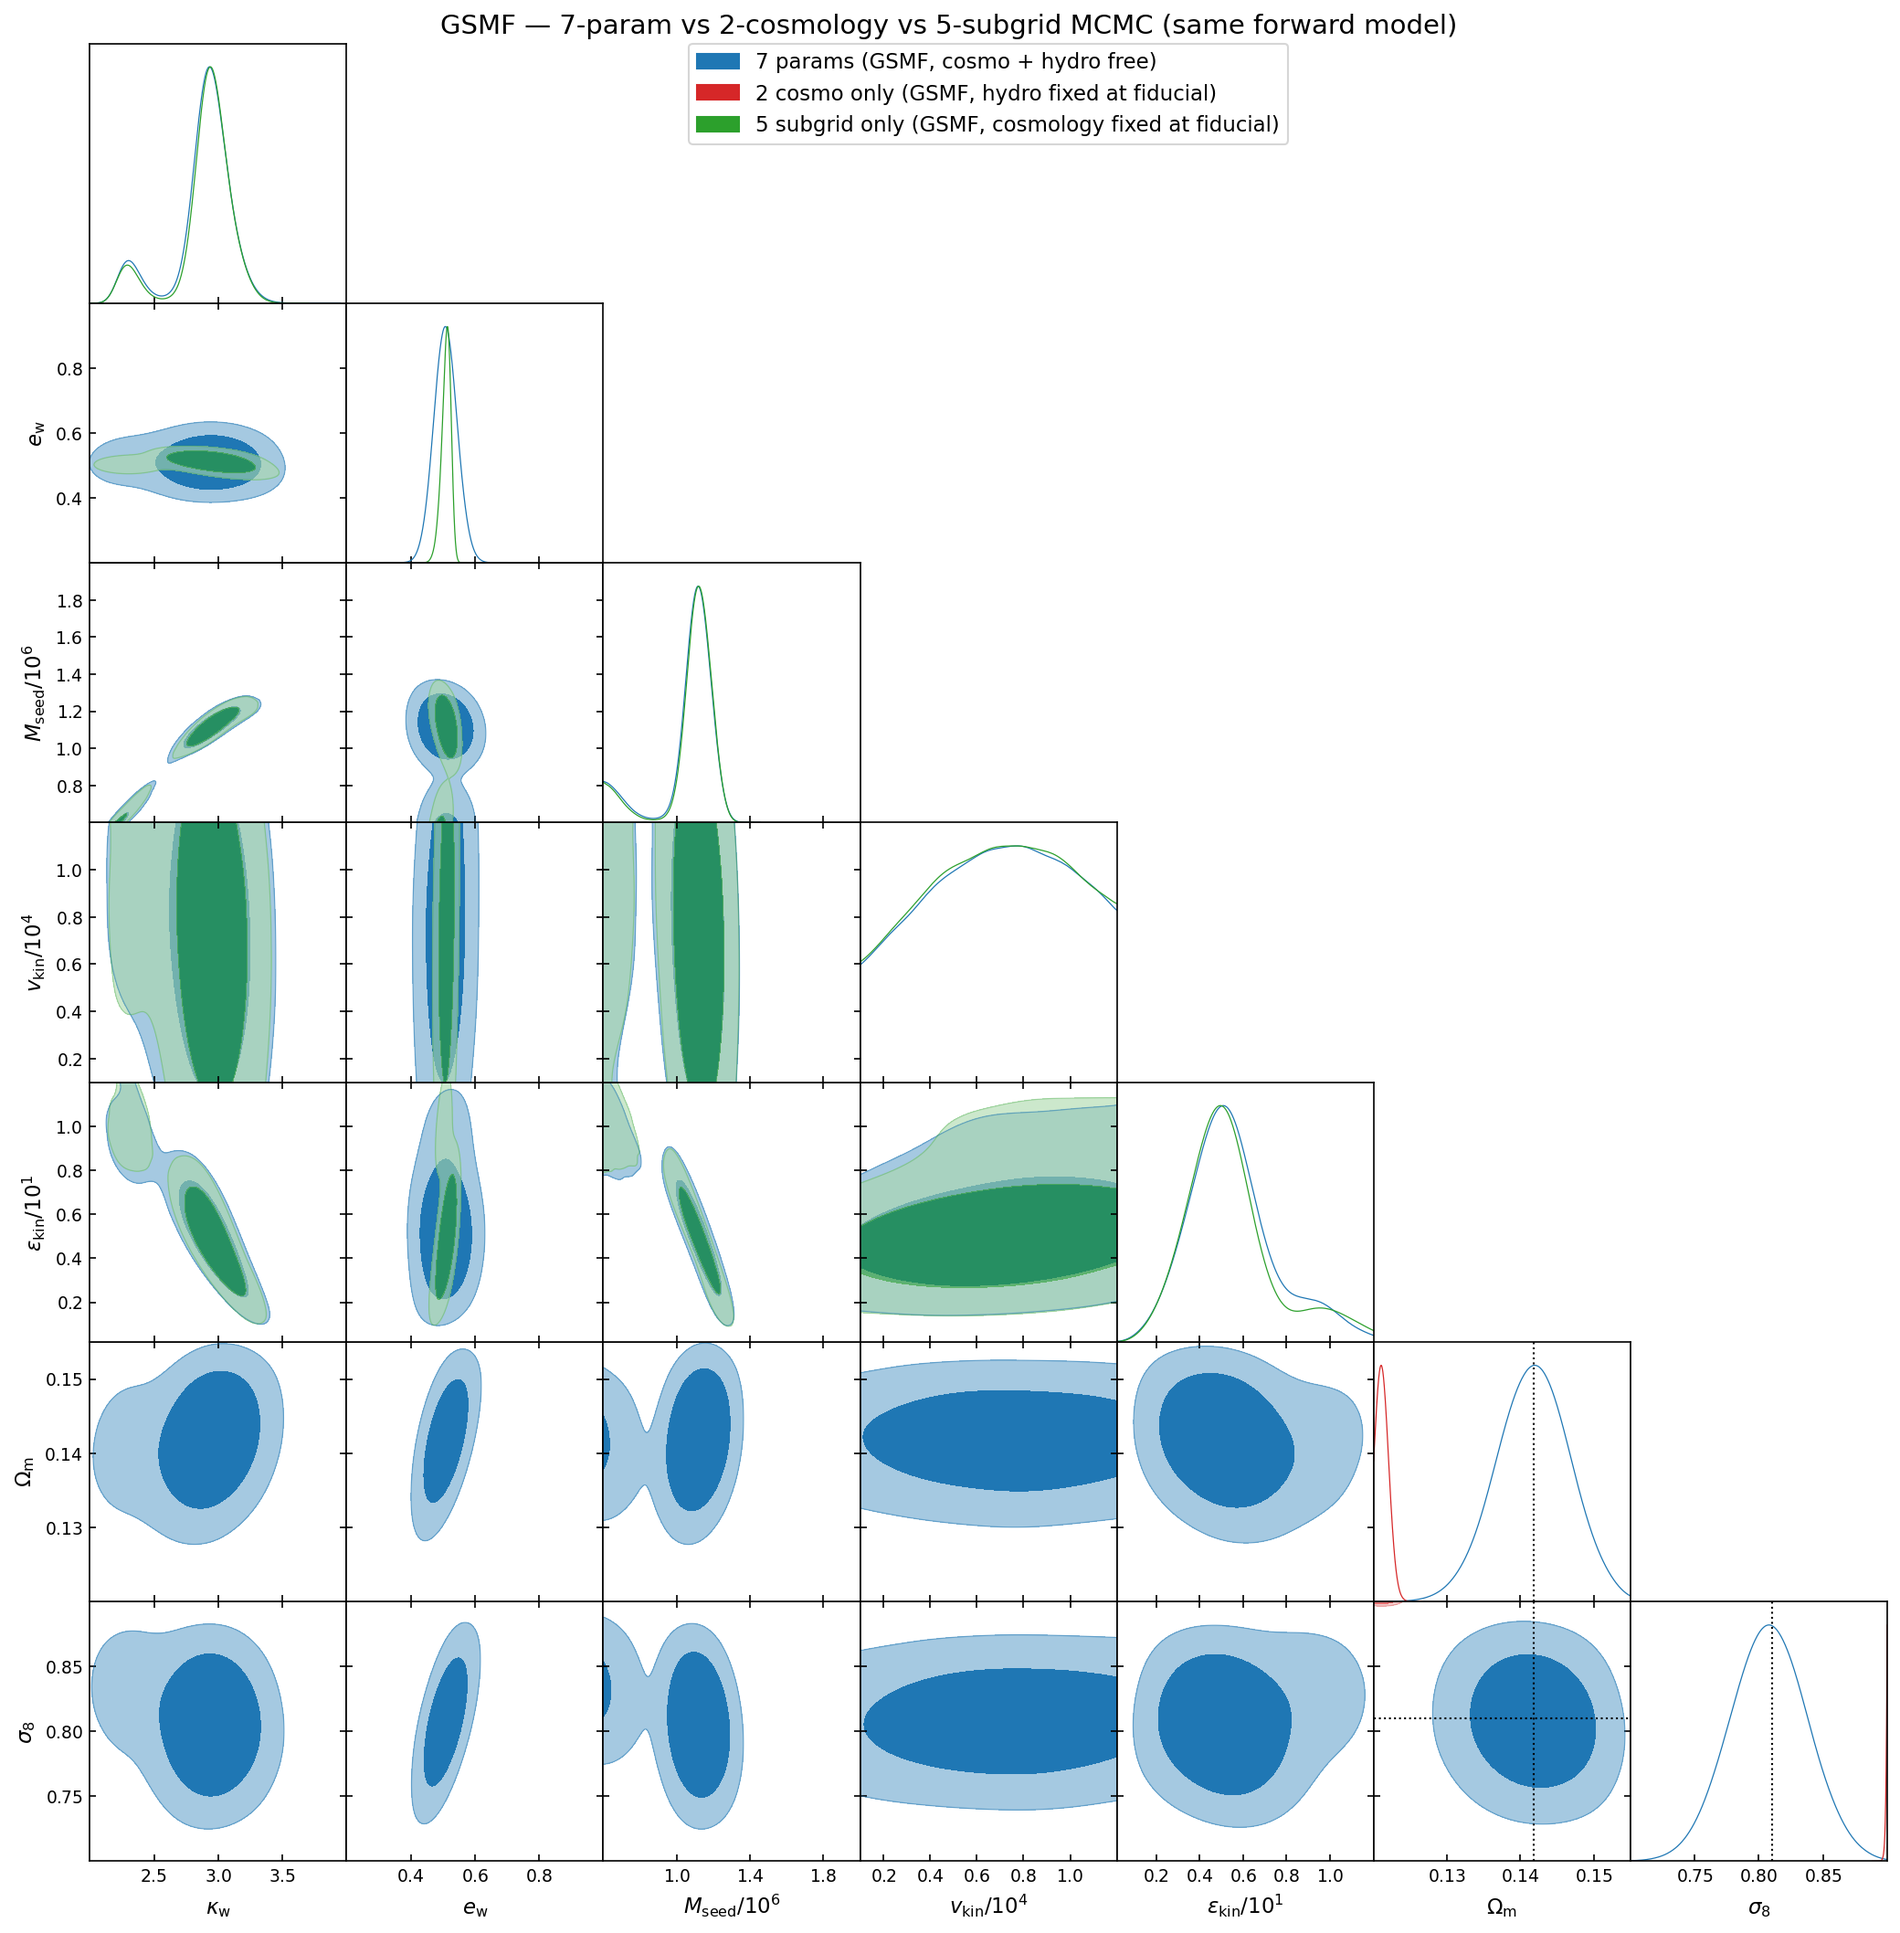
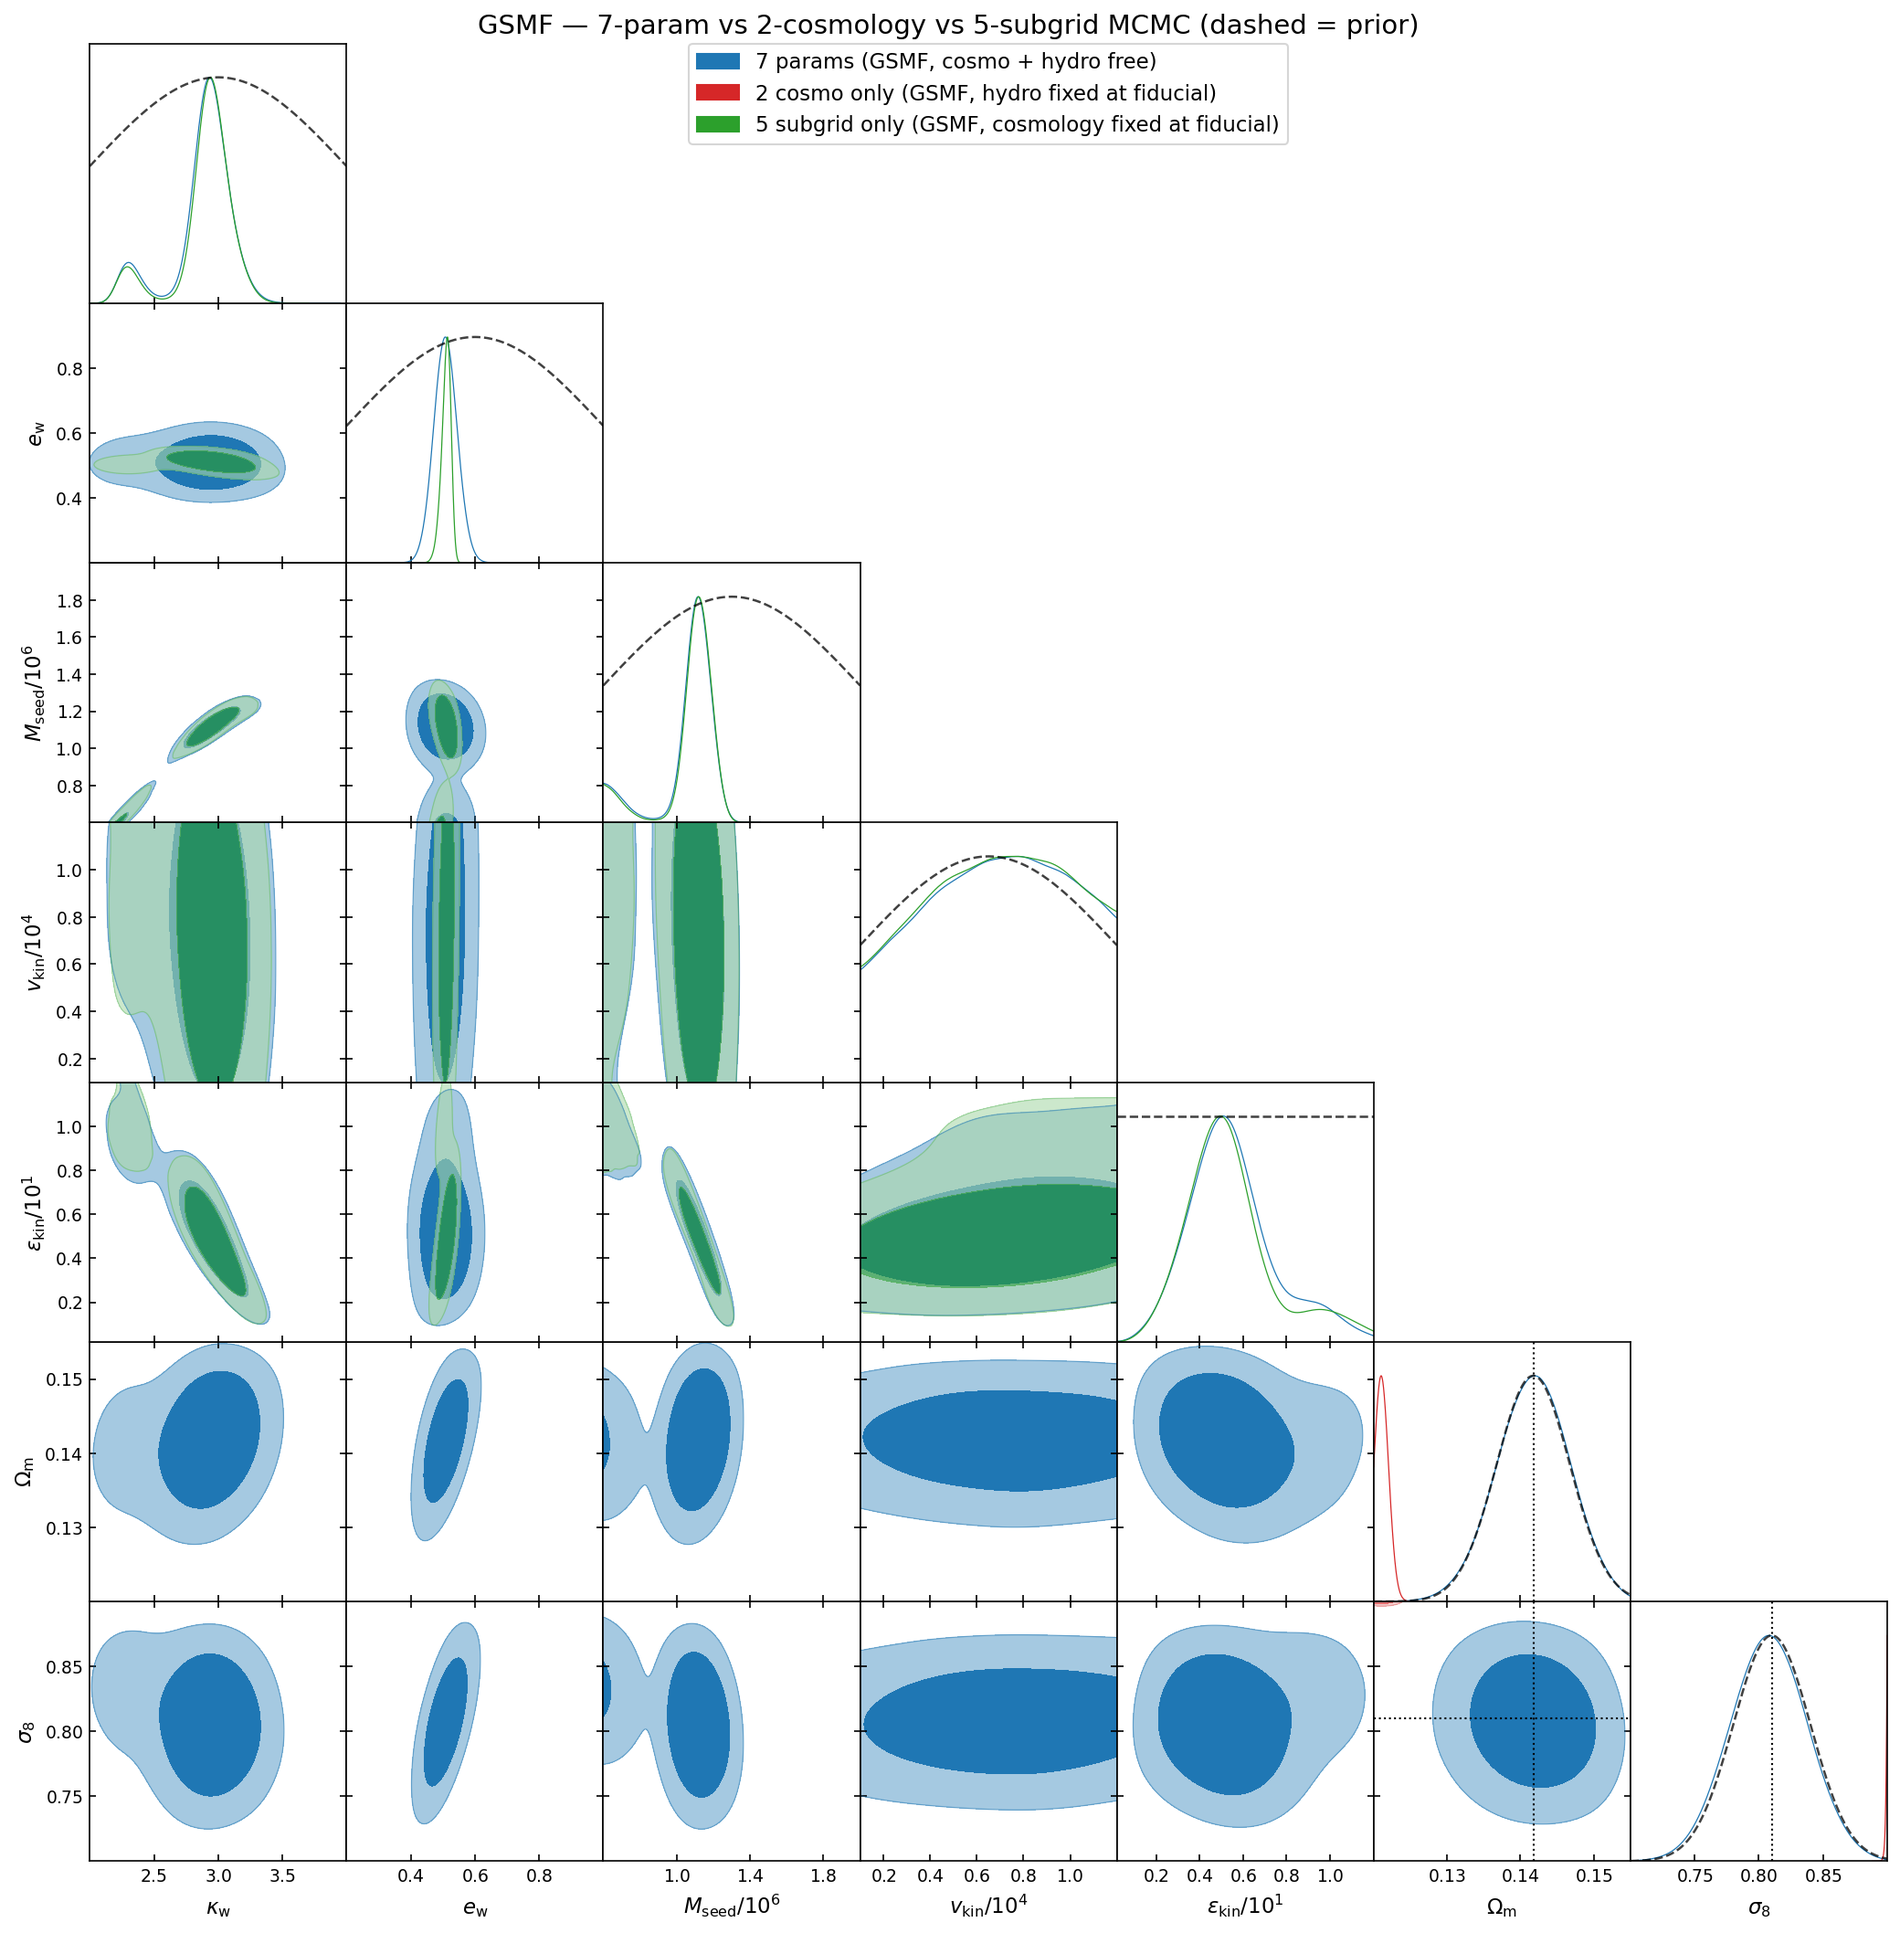
trunc configs

diff --git a/Inference/plot_7p_vs_2cosmo_5subgrid.py b/Inference/plot_7p_vs_2cosmo_5subgrid.py
@@ -2,13 +2,17 @@
 """
 Overlay plots comparing MCMC posteriors that share a forward model.
 
-For each observable suite (GSMF, and GSMF+CGD) it builds a triangle in the
+For each observable suite (GSMF, GSMF+CGD) it builds a triangle in the
 7-parameter space with two reduced-dimension posteriors overlaid:
   - the 2-cosmology-parameter (hydro fixed) posterior on the cosmology panels,
   - the 5-subgrid-parameter (cosmology fixed) posterior on the subgrid panels.
 
-It also makes a 7-parameter comparison of GSMF vs GSMF+CGD (how adding CGD
-shifts the joint posterior, especially cosmology).
+It also makes a 7-parameter comparison of GSMF vs GSMF+CGD, and the same set for
+the hard-truncated-prior (`*_trunc`) runs.
+
+The 1D diagonal panels show the prior as a dashed line (peak-normalized):
+cosmology = the (truncated) fiducial Gaussian, eps_kin = flat, other subgrid =
+the broad default Gaussian (midpoint, sigma = half-range).
 
 Chains are skipped if missing, so this is safe to run while runs are ongoing.
 
@@ -22,8 +26,17 @@ from getdist import plots, MCSamples
 
 RESULTS = os.path.join(os.path.dirname(__file__), 'results')
 
-# Project fiducial cosmology (crosshairs on the cosmology panels).
+# Project fiducial cosmology (crosshairs + prior centers).
 FID_OM, FID_S8 = 0.14176, 0.8102
+
+# Cosmology prior per run-family, as {param: (mu, sigma, trunc_lo, trunc_hi)}.
+# Moderate = configs/_defaults.yaml (Gaussian truncated only by the design box).
+MODERATE_PRIOR = {'omega_m': (FID_OM, 0.005, 0.12, 0.155),
+                  'sigma_8': (FID_S8, 0.03,  0.70, 0.90)}
+# Trunc = Planck-tight Gaussian hard-truncated at fiducial +/- 1 sigma
+# (matches the *_trunc configs).
+TRUNC_PRIOR = {'omega_m': (FID_OM, 0.0011, 0.14066, 0.14286),
+               'sigma_8': (FID_S8, 0.006,  0.8042, 0.8162)}
 
 SETTINGS = {'mult_bias_correction_order': 0.5,
             'smooth_scale_2D': 4, 'smooth_scale_1D': 4}
@@ -50,6 +63,17 @@ def mcsamples(loaded, label):
                      label=label, ranges=ranges, settings=SETTINGS)
 
 
+def _cosmo_kind(name):
+    """Return 'omega_m', 'sigma_8', 'eps_kin' (flat), or None for a latex name."""
+    if 'Omega' in name:
+        return 'omega_m'
+    if 'sigma_8' in name:
+        return 'sigma_8'
+    if 'epsilon' in name:
+        return 'eps_kin'
+    return None
+
+
 def fiducial_crosshairs(g, names):
     """Dotted crosshairs at fiducial cosmology on the (omega_m, sigma_8) panels."""
     fid = {names[5]: FID_OM, names[6]: FID_S8}
@@ -67,29 +91,40 @@ def fiducial_crosshairs(g, names):
                 ax.axhline(fid[ni], color='k', lw=1.0, ls=':')
 
 
-def make_triangle(suite, obs_label, output):
-    """7p triangle with 2cosmo (cosmo panels) and 5subgrid (subgrid panels)
-    overlaid, for one observable suite. suite is the trial-name prefix, e.g.
-    'GSMF' or 'GSMF_CGD'."""
-    print(f"\n=== triangle: {obs_label} ({suite}) ===")
-    l7 = load(f'{suite}_7p')
-    if l7 is None:
-        print(f"  no 7p chain for {suite} — skipping this triangle")
-        return
-    l2 = load(f'{suite}_2cosmo')
-    l5 = load(f'{suite}_5p_fid_cosmo')
+def overlay_priors(g, names, ranges, cosmo_prior):
+    """Dashed prior curve (peak-normalized) on each 1D diagonal panel.
 
-    names_7p, ranges_7p = l7[1], l7[2]
-    mcs, colors, labels = [], [], []
-    mcs.append(mcsamples(l7, f'7 params ({obs_label}, cosmo + hydro free)'))
-    colors.append('#1f77b4'); labels.append(mcs[-1].label)
-    if l2 is not None:
-        mcs.append(mcsamples(l2, f'2 cosmo only ({obs_label}, hydro fixed at fiducial)'))
-        colors.append('#d62728'); labels.append(mcs[-1].label)
-    if l5 is not None:
-        mcs.append(mcsamples(l5, f'5 subgrid only ({obs_label}, cosmology fixed at fiducial)'))
-        colors.append('#2ca02c'); labels.append(mcs[-1].label)
+    cosmo_prior : dict {'omega_m': (mu, sigma, lo, hi), 'sigma_8': (...)} giving
+    the cosmology Gaussian and its hard-truncation window (MODERATE_PRIOR for the
+    moderate runs, TRUNC_PRIOR for the *_trunc runs).
+    """
+    for i, name in enumerate(names):
+        ax = g.subplots[i, i]
+        if ax is None:
+            continue
+        lo, hi = ranges[name]
+        x = np.linspace(lo, hi, 500)
+        kind = _cosmo_kind(name)
+        if kind in ('omega_m', 'sigma_8'):
+            mu, sig, tlo, thi = cosmo_prior[kind]
+            y = np.exp(-0.5 * ((x - mu) / sig) ** 2)
+            y[(x < tlo) | (x > thi)] = 0.0
+        elif kind == 'eps_kin':            # flat prior
+            y = np.ones_like(x)
+        else:                              # broad default Gaussian (midpoint, half-range)
+            mu = 0.5 * (lo + hi)
+            sig = 0.5 * (hi - lo)
+            y = np.exp(-0.5 * ((x - mu) / sig) ** 2)
+        if y.max() > 0:
+            y = y / y.max()
+        # getdist peak-normalizes the 1D posterior to 1.0; draw the prior on the
+        # same scale and add headroom so a flat prior (eps_kin) isn't hidden
+        # under the top frame.
+        ax.plot(x, y, color='k', ls='--', lw=1.2, alpha=0.75)
+        ax.set_ylim(0, 1.15)
 
+
+def _plotter():
     g = plots.get_subplot_plotter(subplot_size=2.0)
     g.settings.axes_fontsize = 12
     g.settings.axes_labelsize = 14
@@ -97,24 +132,50 @@ def make_triangle(suite, obs_label, output):
     g.settings.alpha_filled_add = 0.6
     g.settings.solid_contour_palefactor = 0.6
     g.settings.num_plot_contours = 2
+    return g
 
+
+def make_triangle(obs_label, t7p, t2c, t5p, output, cosmo_prior=MODERATE_PRIOR):
+    """7p triangle with 2cosmo (cosmo panels) and 5subgrid (subgrid panels)
+    overlaid. cosmo_prior defaults to the moderate _defaults prior."""
+    print(f"\n=== triangle: {obs_label} ===")
+    l7 = load(t7p)
+    if l7 is None:
+        print(f"  no 7p chain ({t7p}) — skipping this triangle")
+        return
+    l2 = load(t2c) if t2c else None
+    l5 = load(t5p) if t5p else None
+
+    names_7p, ranges_7p = l7[1], l7[2]
+
+    mcs, colors, labels = [mcsamples(l7, f'7 params ({obs_label}, cosmo + hydro free)')], ['#1f77b4'], []
+    labels.append(mcs[-1].label)
+    if l2 is not None:
+        mcs.append(mcsamples(l2, f'2 cosmo only ({obs_label}, hydro fixed at fiducial)'))
+        colors.append('#d62728'); labels.append(mcs[-1].label)
+    if l5 is not None:
+        mcs.append(mcsamples(l5, f'5 subgrid only ({obs_label}, cosmology fixed at fiducial)'))
+        colors.append('#2ca02c'); labels.append(mcs[-1].label)
+
+    g = _plotter()
     g.triangle_plot(mcs, params=names_7p, filled=True, legend_labels=labels,
                     param_limits=ranges_7p, contour_colors=colors)
     fiducial_crosshairs(g, names_7p)
+    overlay_priors(g, names_7p, ranges_7p, cosmo_prior)
     plt.suptitle(f'{obs_label} — 7-param vs 2-cosmology vs 5-subgrid MCMC '
-                 '(same forward model)', y=1.005, fontsize=14)
+                 '(dashed = prior)', y=1.005, fontsize=14)
     plt.savefig(output, bbox_inches='tight', dpi=150)
     plt.close()
     print(f"  saved: {output}")
 
 
-def make_7p_comparison(suites, output):
-    """Overlay the 7-parameter posteriors of several suites (e.g. GSMF vs
-    GSMF+CGD) on one triangle. suites = [(trial_prefix, label, color), ...]."""
-    print("\n=== 7p comparison: GSMF vs GSMF+CGD ===")
+def make_7p_comparison(suites, output, cosmo_prior=MODERATE_PRIOR):
+    """Overlay the 7-parameter posteriors of several suites on one triangle.
+    suites = [(trial_name, label, color), ...]."""
+    print("\n=== 7p comparison ===")
     mcs, colors, labels, names_ref, ranges_ref = [], [], [], None, None
-    for prefix, label, color in suites:
-        l = load(f'{prefix}_7p')
+    for trial, label, color in suites:
+        l = load(trial)
         if l is None:
             continue
         mcs.append(mcsamples(l, label)); colors.append(color); labels.append(label)
@@ -123,34 +184,40 @@ def make_7p_comparison(suites, output):
     if len(mcs) < 2:
         print("  fewer than 2 7p chains available — skipping comparison")
         return
-
-    g = plots.get_subplot_plotter(subplot_size=2.0)
-    g.settings.axes_fontsize = 12
-    g.settings.axes_labelsize = 14
-    g.settings.legend_fontsize = 14
-    g.settings.alpha_filled_add = 0.6
-    g.settings.solid_contour_palefactor = 0.6
-    g.settings.num_plot_contours = 2
-
+    g = _plotter()
     g.triangle_plot(mcs, params=names_ref, filled=True, legend_labels=labels,
                     param_limits=ranges_ref, contour_colors=colors)
     fiducial_crosshairs(g, names_ref)
-    plt.suptitle('7-param MCMC — GSMF vs GSMF+CGD (how adding CGD shifts the posterior)',
-                 y=1.005, fontsize=14)
+    overlay_priors(g, names_ref, ranges_ref, cosmo_prior)
+    plt.suptitle('7-param MCMC comparison (dashed = prior)', y=1.005, fontsize=14)
     plt.savefig(output, bbox_inches='tight', dpi=150)
     plt.close()
     print(f"  saved: {output}")
 
 
 def main():
-    make_triangle('GSMF', 'GSMF',
+    # --- moderate-prior runs (design-box truncation) ---
+    make_triangle('GSMF', 'GSMF_7p', 'GSMF_2cosmo', 'GSMF_5p_fid_cosmo',
                   os.path.join(RESULTS, 'plot_7p_vs_2cosmo_5subgrid.png'))
-    make_triangle('GSMF_CGD', 'GSMF+CGD',
+    make_triangle('GSMF+CGD', 'GSMF_CGD_7p', 'GSMF_CGD_2cosmo', 'GSMF_CGD_5p_fid_cosmo',
                   os.path.join(RESULTS, 'plot_7p_vs_2cosmo_5subgrid_GSMF_CGD.png'))
     make_7p_comparison(
-        [('GSMF', 'GSMF (7p)', '#1f77b4'),
-         ('GSMF_CGD', 'GSMF+CGD (7p)', '#ff7f0e')],
+        [('GSMF_7p', 'GSMF (7p)', '#1f77b4'),
+         ('GSMF_CGD_7p', 'GSMF+CGD (7p)', '#ff7f0e')],
         os.path.join(RESULTS, 'plot_7p_GSMF_vs_GSMF_CGD.png'))
+
+    # --- hard-truncated-prior runs (Planck-tight Gaussian, fiducial +/-1 sigma) ---
+    make_triangle('GSMF, Planck prior', 'GSMF_7p_trunc', 'GSMF_2cosmo_trunc', None,
+                  os.path.join(RESULTS, 'plot_7p_vs_2cosmo_5subgrid_trunc.png'),
+                  cosmo_prior=TRUNC_PRIOR)
+    make_triangle('GSMF+CGD, Planck prior', 'GSMF_CGD_7p_trunc', 'GSMF_CGD_2cosmo_trunc', None,
+                  os.path.join(RESULTS, 'plot_7p_vs_2cosmo_5subgrid_GSMF_CGD_trunc.png'),
+                  cosmo_prior=TRUNC_PRIOR)
+    make_7p_comparison(
+        [('GSMF_7p_trunc', 'GSMF (7p, Planck)', '#1f77b4'),
+         ('GSMF_CGD_7p_trunc', 'GSMF+CGD (7p, Planck)', '#ff7f0e')],
+        os.path.join(RESULTS, 'plot_7p_GSMF_vs_GSMF_CGD_trunc.png'),
+        cosmo_prior=TRUNC_PRIOR)
 
 
 if __name__ == '__main__':

diff --git a/Inference/run_mcmc.py b/Inference/run_mcmc.py
@@ -441,6 +441,22 @@ def build_param_space(cfg, design_params):
     for bp in bias_cfg:
         params_list.append([bp['name'], bp['initial'], bp['min'], bp['max']])
 
+    # Optional hard truncation: narrow a free parameter's [min, max] below the
+    # design-box range. This makes ln_prior return -inf outside the window AND
+    # keeps chain_init's walkers inside it (both use params_list[i][2:4]).
+    # Config form (short keys):
+    #   param_ranges:
+    #     omega_m: [0.13676, 0.14676]
+    #     sigma_8: [0.7802, 0.8402]
+    range_overrides = cfg.get('param_ranges', {}) or {}
+    override_by_label = {SHORT_KEY_TO_LABEL[k]: v for k, v in range_overrides.items()}
+    for entry in params_list:
+        if entry[0] in override_by_label:
+            lo, hi = override_by_label[entry[0]]
+            entry[2], entry[3] = float(lo), float(hi)
+            entry[1] = 0.5 * (entry[2] + entry[3])   # re-center init in the window
+            print(f"  [param_ranges] {entry[0]}: hard-truncated to [{lo}, {hi}]")
+
     return params_list, fixed_params, param_names, with_bias
 
 
